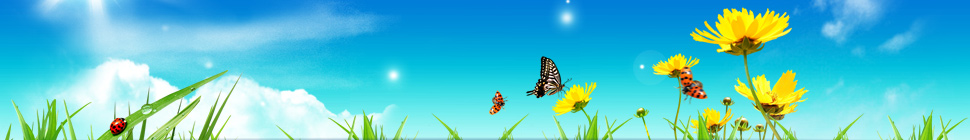
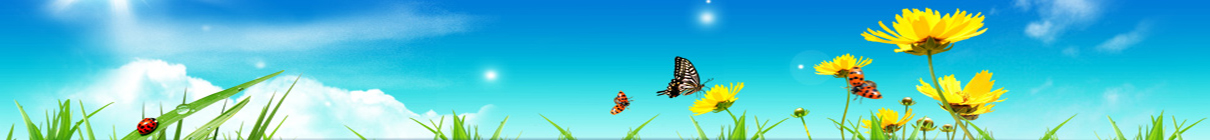
!1331 默认模板宽度从960px改为1200px * 默认模板宽度从960px改为1200px

diff --git a/upload/template/default/common/module.css b/upload/template/default/common/module.css
@@ -97,7 +97,7 @@ Created & Modified by Alice, Monkey, Lushnis, Pony, Dfox & DragonLee.
 			#category_grid td:first-child { border-left: 0; }
 		.category_l1, .category_l2, .category_l3, .category_l4 { line-height: 25px; background: #fff; overflow: hidden; }
 			.category_l1 { line-height: normal; }
-			.slidebox_grid { position: relative; margin: 10px; border: 1px #ccc solid; }
+			.slidebox_grid { position: relative; margin: 10px auto; border: 1px #ccc solid; }
 			#category_grid h4 { width:100%; height: 30px; line-height: 30px; text-indent:10px; font-size: 12px; cursor: pointer; {TITLEBGCODE}; position:relative; }
 		.category_newlist { padding: 10px; }
 			.category_newlist li { height: 21px; line-height:21px; overflow: hidden; }
@@ -1547,7 +1547,7 @@ i.pstatus { display: block; margin-bottom: -30px; font-size: 12px; text-align: c
 	#moodfm {}
 		#moodfm textarea { width: 600px; height: 56px; border: 1px solid; border-color: {INPUTBORDERDARKCOLOR} {INPUTBORDER} {INPUTBORDER} {INPUTBORDERDARKCOLOR}; overflow-y: auto; }
 		.mi .moodfm_input { width: 350px; height: 58px; }
-			.mi #moodfm textarea { float: left; margin: 0; padding: 3px; width: 342px; height: 50px; outline: none; border: 1px solid {COMMONBORDER}; background: #FFF; border-radius: 4px; }
+			.mi #moodfm textarea { float: left; margin: 0; padding: 3px; width: 552px; height: 50px; outline: none; border: 1px solid {COMMONBORDER}; background: #FFF; border-radius: 4px; }
 			.mi #moodfm.hover textarea { border-color: {SPECIALBORDER}; }
 		.moodfm_btn { padding-left: 5px; }
 			.moodfm_btn button { cursor: pointer; padding: 22px 11px; }
@@ -1799,9 +1799,9 @@ i.pstatus { display: block; margin-bottom: -30px; font-size: 12px; text-align: c
 		.tdats th, .tdats td { overflow: hidden; padding: 0 5px; height: 26px; border-width: 0 1px 0 0; border-color: {WRAPBG}; white-space: nowrap; }
 		.tdats th { height: 40px; font-weight: 700; }
 			.tdats .h th { height: 24px; border-top: 1px solid {COMMONBORDER}; border-bottom: 1px solid #E5E5E5; background: linear-gradient(0deg, #efefef, #fcfcfc); color: {MIDTEXT}; zoom: 1; }
-		.tdats .tdat { float: left; width: 150px; border: none; table-layout: fixed; }
+		.tdats .tdat { float: left; width: 240px; border: none; table-layout: fixed; }
 		.tdats .tfx { width: 300px; }
-			.tdats .tfxf { width: 650px; }
+			.tdats .tfxf { width: 800px; }
 			.tfx th, .tfx td { border-width: 0 3px !important; background: #FFF2DF; }
 			.tfx .alt, .tfx .alt th, .tfx .alt td { background: #FAEDDA; }
 			.tfx .h th { padding: 1px 5px; }
@@ -1913,7 +1913,7 @@ i.pstatus { display: block; margin-bottom: -30px; font-size: 12px; text-align: c
 
 /** home::magic,home::medal **/
 /* .mgcl -> Magic list by lushnis */
-	.mgcl li { float: left; width: 132px; height: 180px; text-align: center; }
+	.mgcl li { float: left; width: 126px; height: 180px; text-align: center; }
 		.mgcl .mg_img { margin: 0 auto 5px; }
 			.pg_medal .mgcl img { margin-top: 20px; width: auto; height: auto; }
 
@@ -1982,7 +1982,7 @@ body { background: none !important; }
 
 /* 竞价排名 by Pony */
 .bid { margin: 2px -4px -2px 2px; zoom: 1; }
-.biduser { width: 780px; background: url({IMGDIR}/avatar_blank.gif); }
+.biduser { width: 988px; background: url({IMGDIR}/avatar_blank.gif); }
 	.biduser li { float: left; margin: 0 4px 4px 0; }
 	.biduser a { display: block; }
 		.biduser img { width: 48px; height: 48px; }
@@ -1992,7 +1992,7 @@ body { background: none !important; }
 
 /* 重定义 */
 .xl2 { background: url({IMGDIR}/vline.png) repeat-y 50% 0; }
-	.xl2 li { margin-right: 20px; width: 378px; }
+	.xl2 li { margin-right: 20px; width: 482px; }
 		.xl2 li.xl2_r { margin-right: 0; }
 
 .hasrank dl { padding-left: 110px; }

diff --git a/upload/template/default/common/common.css b/upload/template/default/common/common.css
@@ -88,7 +88,7 @@ CSS 写作注意事项：
 	Last Modify:	Pony
 */
 	* { word-wrap: break-word; }
-	body { {BGCODE}; min-width: 960px; }
+	body { {BGCODE}; min-width: 1200px; }
 	body, input, button, select, textarea { font: {FONTSIZE} {FONT}; color: {TABLETEXT}; }
 		textarea { resize: none; }
 	body, ul, ol, li, dl, dd, p, h1, h2, h3, h4, h5, h6, form, fieldset, .pr, .pc { margin: 0; padding: 0; }
@@ -599,10 +599,10 @@ CSS 写作注意事项：
 		.pmfl			PM friend list (Window)
 		*/
 
-/* 通用容器，定义页面宽度 */ .wp { margin: 0 auto; width: 960px; } #wp .wp { width: auto; }
+/* 通用容器，定义页面宽度 */ .wp { margin: 0 auto; width: 1200px; } #wp .wp { width: auto; }
 
 /* 页头 */
-	#toptb { min-width: 960px; border-bottom: 1px solid {COMMONBORDER}; background: {COMMONBG}; line-height: 28px; }
+	#toptb { min-width: 1200px; border-bottom: 1px solid {COMMONBORDER}; background: {COMMONBG}; line-height: 28px; }
 		#toptb a { float: left; padding: 0 4px; height: 28px; }
 		#toptb a.showmenu { padding-right: 15px; }
 		#toptb a.hover { background-color: #FFF; }
@@ -684,19 +684,18 @@ CSS 写作注意事项：
 	#ct { min-height: 300px; }
 		.mn { overflow: hidden; }
 		.ct1 { border: 1px solid {WRAPBORDERCOLOR}; border-top: none; }
-		.ct2 .mn { float: left; width: 730px; margin-bottom: 1em; }
+		.ct2 .mn { float: left; width: 970px; margin-bottom: 1em; }
 		.ct2 .sd { float: right; width: 220px; overflow: hidden; }
 
-		.appl { float: left; overflow: hidden; margin-bottom: 10px; padding: 6px 10px; width: 117px; }
+		.appl { float: left; overflow: hidden; margin-bottom: 10px; padding: 6px 10px; width: 147px; }
 
-		.ct2_a, .ct3_a { border: 1px solid {WRAPBORDERCOLOR}; background: repeat-y 0 0; background-image: linear-gradient(0deg, {SIDEBGCOLOR}, {SIDEBGCOLOR}); background-size: 137px; }
+		.ct2_a, .ct3_a { border: 1px solid {WRAPBORDERCOLOR}; background: repeat-y 0 0; background-image: linear-gradient(0deg, {SIDEBGCOLOR}, {SIDEBGCOLOR}); background-size: 167px; }
 			.ct2_a_r { border: none; background-image: none; }
 			 .ct2_a h1.mt { display: none; }
 			 .ct2_a .tb { margin-top: 3px; }
-		.ct2_a .mn { float: right; width: 810px; }
-			.ct2_a .mn { display: inline; margin-right: 10px; padding-top: 10px; width: 800px; }
+		.ct2_a .mn { float: right; display: inline; margin-right: 10px; padding-top: 10px; width: 1010px; }
 
-		.ct3_a .mn { float: left; margin-left: 20px; width: 565px; }
+		.ct3_a .mn { float: left; margin-left: 20px; width: 775px; }
 		.ct3_a .sd { float: right; width: 220px; }
 			#nv_home .ct3_a .sd .bm { margin-right: 10px; border: none; }
 				#nv_home .ct3_a .sd .bm_c { padding: 10px 0; }

diff --git a/upload/template/default/common/css_space.css b/upload/template/default/common/css_space.css
@@ -1,5 +1,5 @@
 body { background-color: transparent; }
-	.wp { width: 970px; }
+	.wp { width: 1210px; }
 	#hd { margin-bottom: 0; position: relative; height: 140px; }
 		#hd h2 { padding: 25px 0 0 15px; font-size: 14px; }
 			#hd h2 strong { display: block; }
@@ -32,14 +32,14 @@ body { background-color: transparent; }
 #myspace_menu li a, #navs_menu li a { background-repeat: no-repeat; background-position: -200px 0; }
 .ct2 .sd { width: 180px; }
 
-.mn { display: inline; margin-left: 10px; width: 760px !important; }
+.mn { display: inline; margin-left: 10px; width: 1000px !important; }
 	.mt { margin: 0; padding: 0; }
 	h1.mt { font-size: 12px; }
 	.bm { background: #FFF; zoom: 1; }
 .sd { display: inline; margin-right: 10px; min-height: 0; }
 	#pcd { padding: 15px 4px 15px 6px; }
 
-	.mla li, .mlp li { width: 133px; }
+	.mla li, .mlp li { width: 153px; }
 	.buddy li { width: 156px; }
 	.pic .c img { max-width: 714px; }
 	.ul_list {}

diff --git a/upload/template/default/forum/discuz.htm b/upload/template/default/forum/discuz.htm
@@ -57,10 +57,15 @@
 						<td valign="top" class="category_l1">
 							<div class="newimgbox">
 								<h4><span class="tit_newimg"></span>{lang latest_images}</h4>
-								<div class="module cl slidebox_grid" style="width:218px">
+								<!--{if $_G['setting']['forumallowside']}-->
+								    <!--{eval $slide_width = 220;}-->
+								<!--{else}-->
+								    <!--{eval $slide_width = 278;}-->
+								<!--{/if}-->
+								<div class="module cl slidebox_grid" style="width:{$slide_width}px">
 									<script type="text/javascript">
 									var slideSpeed = 5000;
-									var slideImgsize = [218,200];
+									var slideImgsize = [{$slide_width},200];
 									var slideBorderColor = '{$_G['style']['specialborder']}';
 									var slideBgColor = '{$_G['style']['commonbg']}';
 									var slideImgs = new Array();

diff --git a/upload/static/topic/t1/images/red/style.css b/upload/static/topic/t1/images/red/style.css
@@ -7,10 +7,10 @@ Powered by Discuz! X
 body { color: #333; background-image: none; background: #FFF url(body.jpg) repeat-x 0 0; }
 .block, .temp { margin: 0; }
 .frame, .frame-tab, #comment { border: 1px solid #B7B7B7; }
-.frame-1-1-l { width: 310px; }
-.frame-1-1-r { width: 380px; margin: 0 10px; display: inline; }
-.frame-3-1-l { width: 710px; }
-.frame-3-1-r { width: 250px; }
+.frame-1-1-l { width: 400px; }
+.frame-1-1-r { width: 470px; margin: 0 10px; display: inline; }
+.frame-3-1-l { width: 890px; }
+.frame-3-1-r { width: 310px; }
 .slidebox { margin-bottom: 10px; padding: 3px; border: 1px solid #B7B7B7; }
 	.slideshow span.title { padding: 0; height: 26px; line-height: 26px; font-size: 12px; }
 .block .xl1 ul li { background: url(dot_2.png) no-repeat 3px 50%; }

diff --git a/upload/static/topic/t1/images/blue/style.css b/upload/static/topic/t1/images/blue/style.css
@@ -7,10 +7,10 @@ Powered by Discuz! X
 body { color: #333; background-image: none; background-color: #FFF; }
 .block, .temp { margin: 0; }
 .frame, .frame-tab, #comment { border: 1px solid #B7B7B7; }
-.frame-1-1-l { width: 310px; }
-.frame-1-1-r { width: 380px; margin: 0 10px; display: inline; }
-.frame-3-1-l { width: 710px; }
-.frame-3-1-r { width: 250px; }
+.frame-1-1-l { width: 400px; }
+.frame-1-1-r { width: 470px; margin: 0 10px; display: inline; }
+.frame-3-1-l { width: 890px; }
+.frame-3-1-r { width: 310px; }
 .slidebox { margin-bottom: 10px; padding: 3px; border: 1px solid #B7B7B7; }
 	.slideshow span.title { padding: 0; height: 26px; line-height: 26px; font-size: 12px; }
 .block .xl1 ul li { background: url(dot_2.png) no-repeat 3px 50%; }

diff --git a/upload/static/topic/t1/images/grey/style.css b/upload/static/topic/t1/images/grey/style.css
@@ -7,10 +7,10 @@ Powered by Discuz! X
 body { color: #333; background-image: none; background-color: #FFF; }
 .block, .temp { margin: 0; }
 .frame, .frame-tab, #comment { border: 1px solid #AEAEAE; }
-.frame-1-1-l { width: 310px; }
-.frame-1-1-r { width: 380px; margin: 0 10px; display: inline; }
-.frame-3-1-l { width: 710px; }
-.frame-3-1-r { width: 250px; }
+.frame-1-1-l { width: 400px; }
+.frame-1-1-r { width: 470px; margin: 0 10px; display: inline; }
+.frame-3-1-l { width: 890px; }
+.frame-3-1-r { width: 310px; }
 .slidebox { margin-bottom: 10px; padding: 3px; border: 1px solid #B7B7B7; }
 	.slideshow span.title { padding: 0; height: 26px; line-height: 26px; font-size: 12px; }
 .block .xl1 ul li { background: url(dot_2.png) no-repeat 3px 50%; }

diff --git a/upload/static/topic/t1/images/green/style.css b/upload/static/topic/t1/images/green/style.css
@@ -7,10 +7,10 @@ Powered by Discuz! X
 body { color: #333; background-image: none; background: #FFF; }
 .block, .temp { margin: 0; }
 .frame, .frame-tab, #comment { border: 1px solid #B7B7B7; }
-.frame-1-1-l { width: 310px; }
-.frame-1-1-r { width: 380px; margin: 0 10px; display: inline; }
-.frame-3-1-l { width: 710px; }
-.frame-3-1-r { width: 250px; }
+.frame-1-1-l { width: 400px; }
+.frame-1-1-r { width: 470px; margin: 0 10px; display: inline; }
+.frame-3-1-l { width: 890px; }
+.frame-3-1-r { width: 310px; }
 .slidebox { margin-bottom: 10px; padding: 3px; border: 1px solid #B7B7B7; }
 	.slideshow span.title { padding: 0; height: 26px; line-height: 26px; font-size: 12px; }
 .block .xl1 ul li { background: url(dot_2.png) no-repeat 3px 50%; }

diff --git a/upload/static/space/t1/style.css b/upload/static/space/t1/style.css
@@ -5,7 +5,7 @@ Powered by Discuz! X
 
 body { background: #F8F8F8; }
 a { color: #069; }
-#hd { margin-top: 30px; width: 948px; height: 133px; border: 1px solid #D3DFDF; background: #FAFAFA url(images/header.jpg) no-repeat 100% 0; color: #069; }
+#hd { margin-top: 30px; width: 1188px; height: 133px; border: 1px solid #D3DFDF; background: #FAFAFA url(images/header.jpg) no-repeat 100% 0; color: #069; }
 	#hd h2 { padding: 20px 0 0 30px; line-height: 115%; }
 	#nv { bottom: 10px; }
 		#nv li { background: none; filter:progid:DXImageTransform.Microsoft.gradient(startColorstr = #00FFFFFF, endColorstr = #00FFFFFF); font-size: 14px; }

diff --git a/upload/template/default/common/widthauto.css b/upload/template/default/common/widthauto.css
@@ -6,7 +6,7 @@ Created & Modified by Pony.
 ---------------------------------- */
 
 .wp { width: 98%; }
-	#hd .wp, #wp { min-width: 960px; }
+	#hd .wp, #wp { min-width: 1200px; }
 
 .ct2 { margin-right: 235px; }
 	.ct2 .sd { margin-right: -235px; }

diff --git a/upload/source/function/function_space.php b/upload/source/function/function_space.php
@@ -683,21 +683,21 @@ function mkfeedhtml($value) {
 
 function &getlayout($layout='') {
 	$layoutarr = array(
-			'1:2:1' => array('240', '480', '240'),
-			'1:1:2' => array('240', '240', '480'),
-			'2:1:1' => array('480', '240', '240'),
-			'2:2' => array('480', '480'),
-			'1:3' => array('240', '720'),
-			'3:1' => array('720', '240'),
-			'1:4' => array('190', '770'),
-			'4:1' => array('770', '190'),
-			'2:2:1' => array('385', '385', '190'),
-			'1:2:2' => array('190', '385', '385'),
-			'1:1:3' => array('190', '190', '570'),
-			'1:3:1' => array('190', '570', '190'),
-			'3:1:1' => array('570', '190', '190'),
-			'3:2' => array('575', '385'),
-			'2:3' => array('385', '575')
+			'1:2:1' => array('300', '600', '300'),
+			'1:1:2' => array('300', '300', '600'),
+			'2:1:1' => array('600', '300', '300'),
+			'2:2' => array('600', '600'),
+			'1:3' => array('300', '900'),
+			'3:1' => array('900', '300'),
+			'1:4' => array('240', '960'),
+			'4:1' => array('960', '240'),
+			'2:2:1' => array('480', '480', '240'),
+			'1:2:2' => array('240', '480', '480'),
+			'1:1:3' => array('240', '240', '720'),
+			'1:3:1' => array('240', '720', '240'),
+			'3:1:1' => array('720', '240', '240'),
+			'3:2' => array('720', '480'),
+			'2:3' => array('480', '720')
 	);
 
 	if (!empty($layout)) {

diff --git a/upload/source/module/home/home_magic.php b/upload/source/module/home/home_magic.php
@@ -26,7 +26,7 @@ loadcache('magics');
 
 $_G['mnid'] = 'mn_common';
 $magiclist = array();
-$_G['tpp'] = 12;
+$_G['tpp'] = 16;
 $page = max(1, intval($_GET['page']));
 $action = $_GET['action'];
 $operation = $_GET['operation'];
